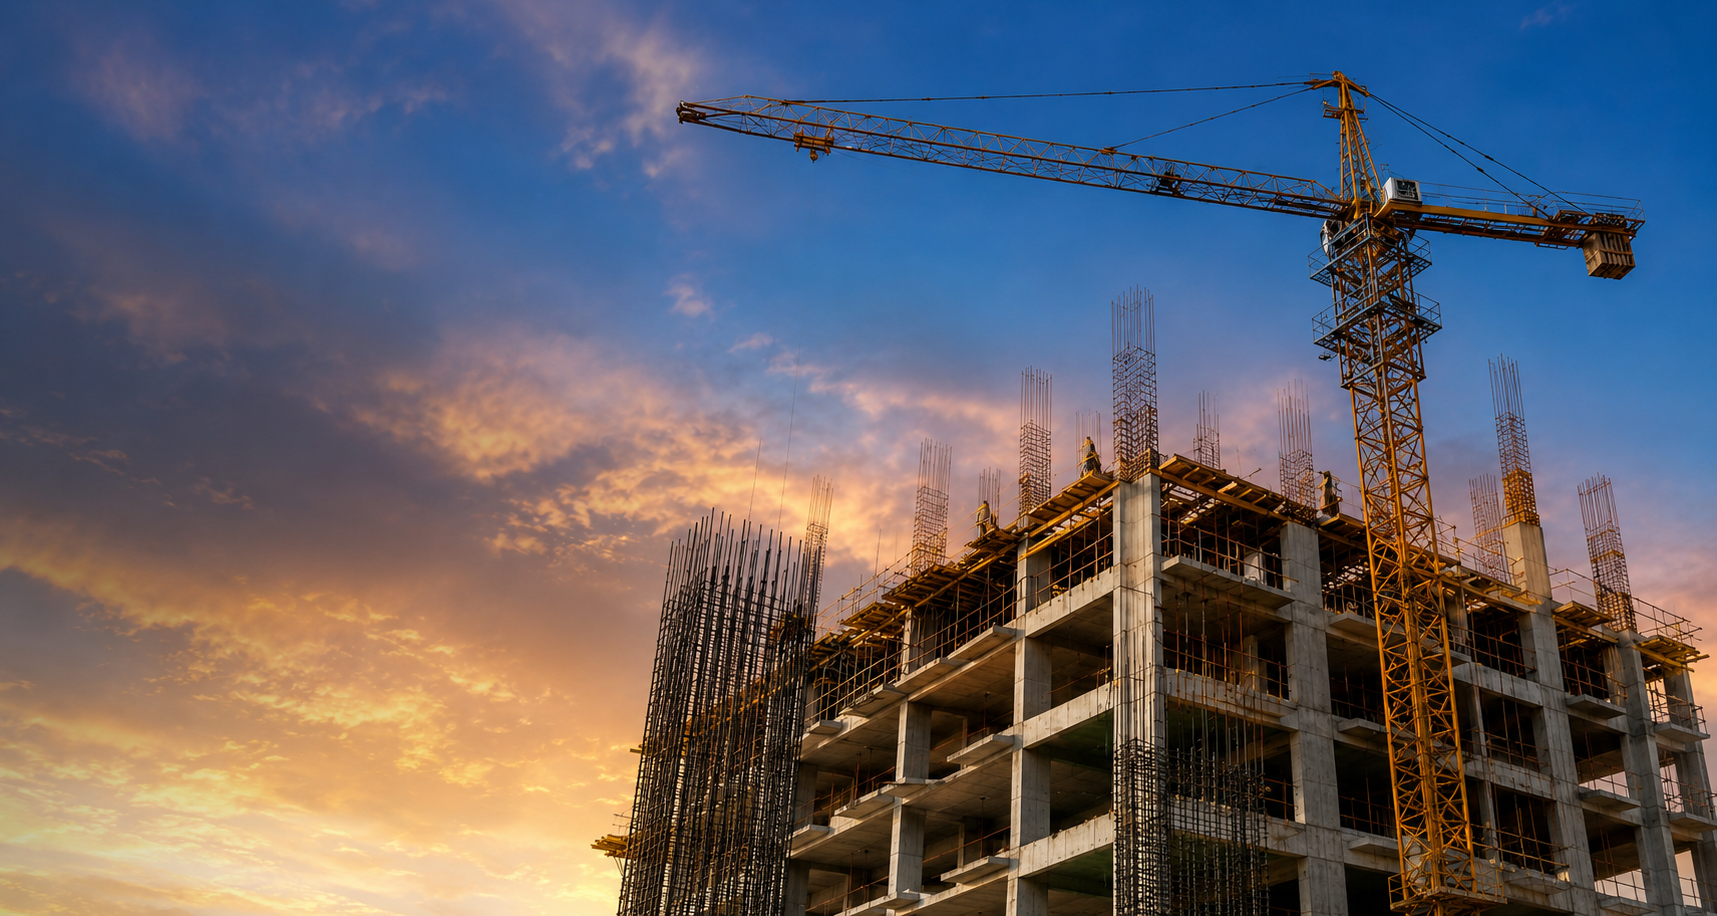
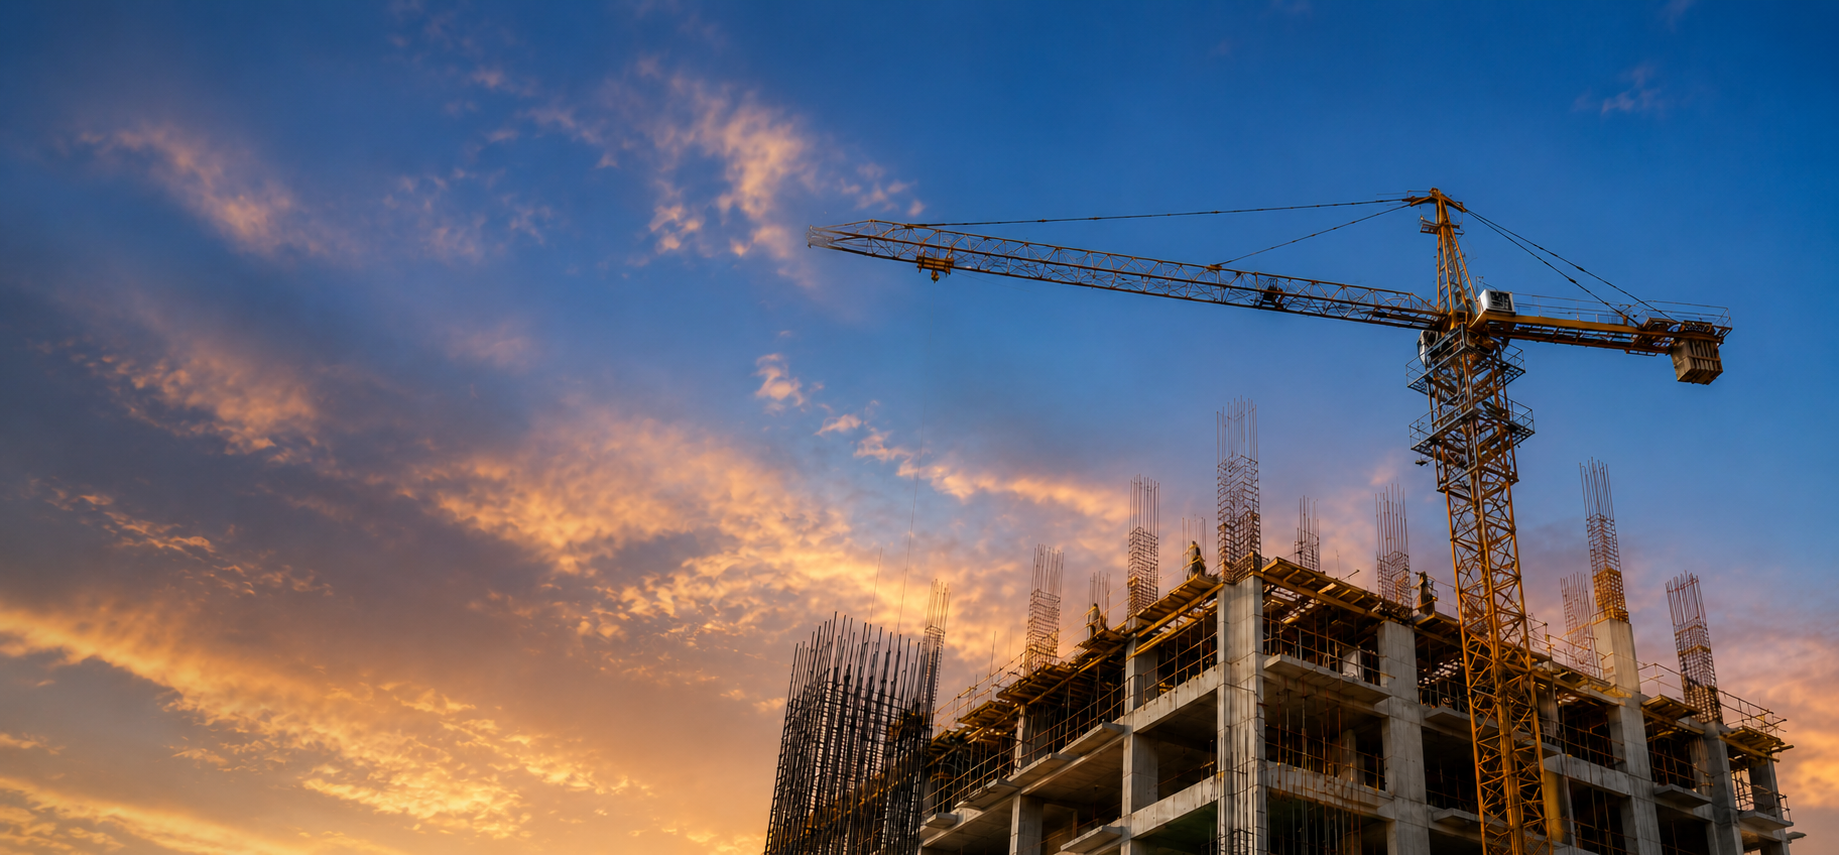
hero image change

diff --git a/index.html b/index.html
@@ -113,11 +113,11 @@
     </nav>
 
     <!-- Hero Section -->
-    <section class="relative h-[100svh] min-h-[600px] flex items-center pt-20">
+    <section class="relative h-[86svh] min-h-[600px] flex items-center pt-20">
         <!-- Background Image & Overlay -->
         <div class="absolute inset-0 z-0">
             <img 
-                src="assets/hero-bg-expanded2.png" 
+                src="assets/hero-bg.png" 
                 alt="Construction Site Crane at Sunset" 
                 class="w-full h-full object-cover"
                 onerror="this.src='https://images.unsplash.com/photo-1541888086425-d81bb19240f5?auto=format&fit=crop&w=1920&q=80'"
